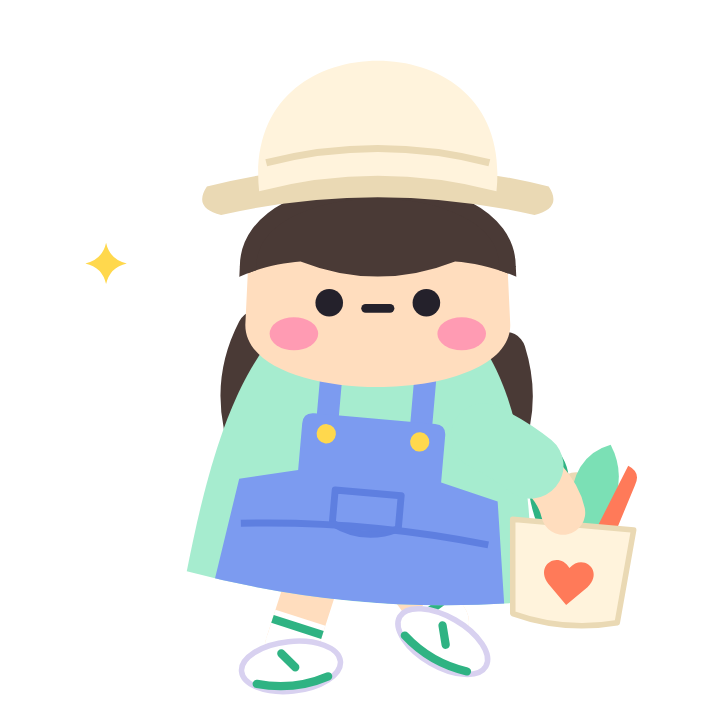
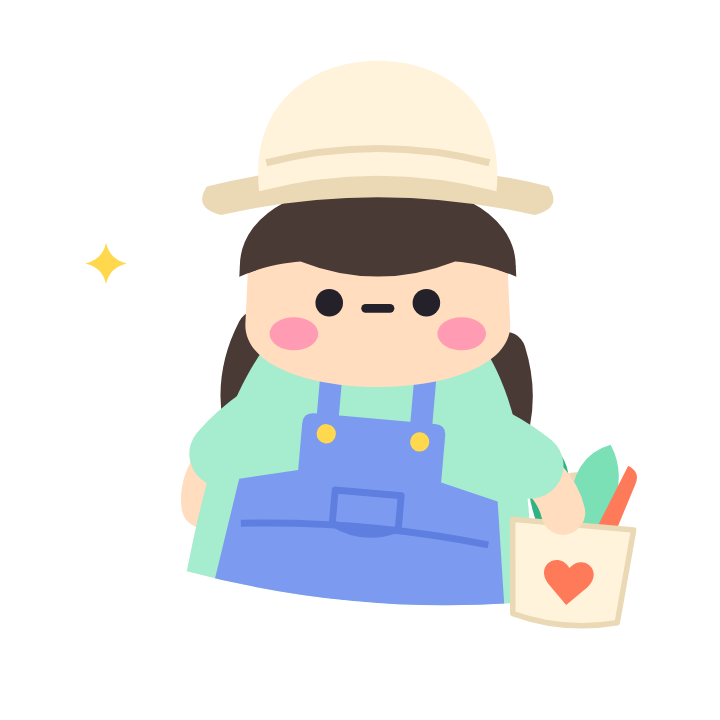
Replace waving with real actions: the chef tosses the wok, the shopper walks
The waving poses are gone. Chef Jiw now cooks: the wok and his arms flick
up while the food flies higher and lands back in time. Bai Toey walks:
her legs lift one after the other while she carries her tote. Each moving
part is its own layer over the body, and how far a part moves is a share
of the picture's size, so it looks the same small or large.

The kitchen scene, the plan card, onboarding, the waitlist page and the
link preview use the cooking chef. Checked the worried chef's shake on a
failed server call in the browser.

Claude-Session: https://claude.ai/code/session_01YRit4BDrXmu1xBXH17a6cf

Changed region(s): [[0.3361, 0.825, 0.4889, 0.9778], [0.55, 0.825, 0.7028, 0.9472], [0.2444, 0.55, 0.3361, 0.7333]]

diff --git a/src/components/ui.tsx b/src/components/ui.tsx
@@ -5,7 +5,7 @@ import { AccessibilityInfo, Animated, Easing, Modal, Platform, Pressable, Scroll
 import { useSafeAreaInsets } from 'react-native-safe-area-context';
 
 import { Icon, type IconName } from '@/components/icon';
-import { MASCOT, type Layers, type Motion, type SCENE } from '@/data/images';
+import { MASCOT, type Layers, type Motion, type PartMove, type SCENE } from '@/data/images';
 import type { ApiErrorKind } from '@/lib/api';
 import { BETA } from '@/lib/beta';
 import { FREE_PER_DAY } from '@/lib/quota';
@@ -86,12 +86,17 @@ export function Card({ tone = 'soft', children, style, onPress, label }: { tone?
 type Ease = 'sin' | 'up' | 'down';
 const EASE = { sin: Easing.inOut(Easing.sin), up: Easing.out(Easing.quad), down: Easing.in(Easing.quad) };
 // แต่ละจังหวะ: [ค่าปลายทาง, เวลา (ms), การเร่ง] แล้วพัก rest ก่อนวนใหม่
-const MOVES: Record<Motion | 'wave', { steps: [number, number, Ease][]; rest: number }> = {
+const MOVES: Record<Motion | PartMove, { steps: [number, number, Ease][]; rest: number }> = {
   bob: { steps: [[-6, 1400, 'sin'], [0, 1400, 'sin']], rest: 0 },
   sway: { steps: [[1, 800, 'sin'], [-1, 1600, 'sin'], [0, 800, 'sin']], rest: 0 },
   jump: { steps: [[-20, 240, 'up'], [0, 240, 'down'], [-12, 180, 'up'], [0, 180, 'down']], rest: 900 },
   shake: { steps: [[-5, 70, 'sin'], [5, 140, 'sin'], [-5, 140, 'sin'], [5, 140, 'sin'], [0, 70, 'sin']], rest: 1800 },
-  wave: { steps: [[1, 260, 'sin'], [-1, 260, 'sin'], [1, 260, 'sin'], [-1, 260, 'sin'], [0, 200, 'sin']], rest: 1500 },
+  // ผัดกระทะ: กระทะกระดกแล้วของลอยขึ้นสูงกว่า รอบละเท่ากัน (1.2 วินาที) จึงเข้าจังหวะกัน
+  toss: { steps: [[-1, 200, 'up'], [0, 260, 'down']], rest: 740 },
+  fly: { steps: [[-1, 330, 'up'], [0, 330, 'down']], rest: 540 },
+  // เดิน: ยกขาสลับข้าง ขาขวาเริ่มหลังขาซ้ายครึ่งรอบ
+  stepL: { steps: [[-1, 200, 'up'], [0, 200, 'down']], rest: 400 },
+  stepR: { steps: [[0, 400, 'sin'], [-1, 200, 'up'], [0, 200, 'down']], rest: 0 },
 };
 /** วนการขยับชุดหนึ่งไปเรื่อยๆ หลังหน่วง delay หยุดนิ่งถ้าเครื่องตั้งค่าลดการเคลื่อนไหว */
 function useMove(move: keyof typeof MOVES, delay = 0) {
@@ -125,17 +130,25 @@ export function Float({ children, motion = 'bob', delay = 0 }: { children: React
   );
 }
 
-/** ภาพตัวละครจัตุรัส ถ้าส่งชั้นแยกของท่าโบกมือมา แขนจะโบกจริงรอบหัวไหล่ */
-export function Mascot({ source, wave, size }: { source: number; wave?: Layers; size: number | '100%' }) {
-  const v = useMove('wave', 300);
-  if (!wave) return <Image source={source} style={{ width: size, aspectRatio: 1 }} contentFit="contain" accessible={false} />;
+// ระยะที่แต่ละส่วนขยับ เป็นสัดส่วนของขนาดภาพ ตัวละครจึงขยับเท่ากันไม่ว่าจะแสดงเล็กหรือใหญ่
+const REACH: Record<PartMove, number> = { toss: 0.035, fly: 0.11, stepL: 0.035, stepR: 0.035 };
+/** ชั้นหนึ่งของตัวละครที่ขยับเอง: กระทะกระดก ของในกระทะลอย หรือขายกสลับข้าง */
+function Part({ source, move, width }: { source: number; move: PartMove; width: number }) {
+  const v = useMove(move);
+  const lift = { translateY: Animated.multiply(v, width * REACH[move]) };
+  const transform = move === 'toss' ? [lift, { rotate: v.interpolate({ inputRange: [-1, 0], outputRange: ['-6deg', '0deg'] }) }] : [lift];
+  return <Animated.View style={[StyleSheet.absoluteFill, { transform }]}><Image source={source} style={StyleSheet.absoluteFill} contentFit="contain" accessible={false} /></Animated.View>;
+}
+
+/** ภาพตัวละครจัตุรัส ถ้าส่ง layers มา ส่วนที่แยกชั้นไว้จะขยับเอง (เช่น ผัดกระทะ ก้าวขา) */
+export function Mascot({ source, layers, size }: { source: number; layers?: Layers; size: number | '100%' }) {
+  const [width, setWidth] = useState(typeof size === 'number' ? size : 0);
+  if (!layers) return <Image source={source} style={{ width: size, aspectRatio: 1 }} contentFit="contain" accessible={false} />;
   return (
-    <View style={{ width: size, aspectRatio: 1 }}>
-      {/* แขนอยู่หลังตัว หมุนรอบหัวไหล่ */}
-      <Animated.View style={[StyleSheet.absoluteFill, { transformOrigin: `${wave.pivot[0] * 100}% ${wave.pivot[1] * 100}%`, transform: [{ rotate: v.interpolate({ inputRange: [-1, 1], outputRange: ['-9deg', '13deg'] }) }] }]}>
-        <Image source={wave.arm} style={StyleSheet.absoluteFill} contentFit="contain" accessible={false} />
-      </Animated.View>
-      <Image source={wave.body} style={StyleSheet.absoluteFill} contentFit="contain" accessible={false} />
+    <View style={{ width: size, aspectRatio: 1 }} onLayout={(e) => setWidth(e.nativeEvent.layout.width)}>
+      {layers.parts.filter((p) => p.behind).map((p, k) => <Part key={k} source={p.source} move={p.move} width={width} />)}
+      <Image source={layers.body} style={StyleSheet.absoluteFill} contentFit="contain" accessible={false} />
+      {layers.parts.filter((p) => !p.behind).map((p, k) => <Part key={k} source={p.source} move={p.move} width={width} />)}
     </View>
   );
 }
@@ -160,7 +173,7 @@ export function Screen({ tint, title, subtitle, mascot, scene, onBack, backLabel
           <Image source={scene.source} style={StyleSheet.absoluteFill} contentFit="contain" accessible={false} />
           {scene.cast.map((c, k) => (
             <View key={k} style={{ position: 'absolute', left: `${c.left * 100}%`, top: `${c.top * 100}%`, width: `${c.width * 100}%`, aspectRatio: 1 }}>
-              <Float motion={c.motion} delay={c.delay}><Mascot source={c.source} wave={'wave' in c ? c.wave : undefined} size="100%" /></Float>
+              <Float motion={c.motion} delay={c.delay}><Mascot source={c.source} layers={'layers' in c ? c.layers : undefined} size="100%" /></Float>
             </View>
           ))}
         </View>

diff --git a/src/data/images.ts b/src/data/images.ts
@@ -33,8 +33,7 @@ export const DISH_TINT: Record<string, string> = {
 // ทีมเชฟ ตัวละครสามตัว แต่ละตัวดูแลงานของตัวเอง ใช้เฉพาะจังหวะที่ท่านั้นมีความหมาย ไม่แปะทุกหน้า
 export const MASCOT = {
   // เชฟจิ๋ว: พาทำอาหาร
-  hi: require('@/assets/images/chef/hi.png'), // ทักทาย: หน้าร้าน หน้าแนะนำแอป
-  cook: require('@/assets/images/chef/cook.png'), // ยังไม่เคยทำจานไหน
+  cook: require('@/assets/images/chef/cook.png'), // ผัดกระทะ: หน้าร้าน หน้าแนะนำแอป ยังไม่เคยทำจานไหน
   cheer: require('@/assets/images/chef/cheer.png'), // สำเร็จ: ครบเวลา ทำจานแรกแล้ว
   think: require('@/assets/images/chef/think.png'), // กำลังรอคำตอบ
   oops: require('@/assets/images/chef/oops.png'), // มีอะไรผิดพลาด
@@ -48,27 +47,32 @@ export const MASCOT = {
 };
 
 export type Motion = 'bob' | 'jump' | 'sway' | 'shake';
-/** ท่าโบกมือแยกเป็นสองชั้น: ตัว กับแขนที่โบก แอปหมุนชั้นแขนรอบหัวไหล่ (pivot เป็นสัดส่วนของภาพ พิมพ์ออกมาตอนรัน draw.py) */
-export type Layers = { body: number; arm: number; pivot: [number, number] };
+/** ท่าที่ขยับทีละส่วน: ภาพตัว แล้วซ้อนด้วยส่วนที่ขยับ (ทุกชั้นขนาดเท่ากัน วางทับกันพอดี) behind = อยู่หลังตัว */
+export type PartMove = 'toss' | 'fly' | 'stepL' | 'stepR';
+export type Layers = { body: number; parts: { source: number; move: PartMove; behind?: boolean }[] };
 export const LAYERS = {
-  hi: { body: require('@/assets/images/chef/hi-body.png'), arm: require('@/assets/images/chef/hi-arm.png'), pivot: [0.328, 0.606] },
-  shop: { body: require('@/assets/images/chef/shop-body.png'), arm: require('@/assets/images/chef/shop-arm.png'), pivot: [0.367, 0.579] },
+  // เชฟจิ๋วผัดกระทะ: กระทะกับแขนกระดกขึ้น ของในกระทะลอยขึ้นสูงกว่า
+  cook: { body: require('@/assets/images/chef/cook-body.png'), parts: [
+    { source: require('@/assets/images/chef/cook-food.png'), move: 'fly' }, { source: require('@/assets/images/chef/cook-wok.png'), move: 'toss' }] },
+  // ใบเตยเดิน: ขาซ้ายขวายกสลับกัน
+  shop: { body: require('@/assets/images/chef/shop-body.png'), parts: [
+    { source: require('@/assets/images/chef/shop-legL.png'), move: 'stepL', behind: true }, { source: require('@/assets/images/chef/shop-legR.png'), move: 'stepR', behind: true }] },
 } satisfies Record<string, Layers>;
 /** ฉากเต็มความกว้างใต้ชื่อหน้าจอ: ภาพพื้นหลังโปร่งใสที่วาดให้เข้ากับสีหัวจอ แล้ววางตัวละครทับทีละตัวเพื่อให้ขยับได้
  *  ตำแหน่งเป็นสัดส่วนของฉาก (ซ้าย บน กว้าง) ตัวละครเป็นภาพจัตุรัส */
 export const SCENE = {
-  // ครัวของทีมเชฟ (หัวจอสีน้ำเงิน): ใบเตยกลับจากตลาดโบกมือ เชฟจิ๋วโบกมือ น้องชิมกระโดดรอ
+  // ครัวของทีมเชฟ (หัวจอสีน้ำเงิน): ใบเตยเดินกลับจากตลาด เชฟจิ๋วผัดกระทะ น้องชิมกระโดดรอ
   home: {
     source: require('@/assets/images/chef/scene-home.png'), ratio: 780 / 360,
     cast: [
-      { source: MASCOT.shop, wave: LAYERS.shop, left: 0.008, top: 0.46, width: 0.246, motion: 'bob', delay: 400 },
-      { source: MASCOT.hi, wave: LAYERS.hi, left: 0.344, top: 0.278, width: 0.326, motion: 'bob', delay: 0 },
+      { source: MASCOT.shop, layers: LAYERS.shop, left: 0.008, top: 0.46, width: 0.246, motion: 'bob', delay: 400 },
+      { source: MASCOT.cook, layers: LAYERS.cook, left: 0.344, top: 0.278, width: 0.326, motion: 'bob', delay: 0 },
       { source: MASCOT.yum, left: 0.759, top: 0.528, width: 0.215, motion: 'jump', delay: 900 },
     ],
   },
   // แผงตลาด (หัวจอสีส้ม): ใบเตยเดินเลือกของ
   plan: {
     source: require('@/assets/images/chef/scene-plan.png'), ratio: 780 / 300,
-    cast: [{ source: MASCOT.shop, wave: LAYERS.shop, left: 0.038, top: 0.233, width: 0.295, motion: 'bob', delay: 0 }],
+    cast: [{ source: MASCOT.shop, layers: LAYERS.shop, left: 0.038, top: 0.233, width: 0.295, motion: 'bob', delay: 0 }],
   },
-} satisfies Record<string, { source: number; ratio: number; cast: { source: number; wave?: Layers; left: number; top: number; width: number; motion: Motion; delay: number }[] }>;
+} satisfies Record<string, { source: number; ratio: number; cast: { source: number; layers?: Layers; left: number; top: number; width: number; motion: Motion; delay: number }[] }>;

diff --git a/src/app/(tabs)/index.tsx b/src/app/(tabs)/index.tsx
@@ -58,7 +58,7 @@ export default function Home() {
           <T v="hero" tone="yellow">{price(PER_MEAL)}</T>
           <T v="small" tone="onNavyMuted">{t('plan.sub')}</T>
         </View>
-        <Float><Mascot source={MASCOT.shop} wave={LAYERS.shop} size={104} /></Float>
+        <Float><Mascot source={MASCOT.shop} layers={LAYERS.shop} size={104} /></Float>
         <Icon name="next" color="#FFFFFF" />
       </Card>
       {!BETA && (
@@ -75,7 +75,7 @@ export default function Home() {
           <T v="hero" tone="pastel">{runs.length}</T>
           <T v="bodyBold" tone="pastel">{t('home.cooked')}</T>
         </View>
-        <Float motion={runs.length ? 'jump' : 'sway'}><Image source={runs.length ? MASCOT.cheer : MASCOT.cook} style={{ width: 96, height: 96 }} contentFit="contain" accessible={false} /></Float>
+        {runs.length ? <Float motion="jump"><Mascot source={MASCOT.cheer} size={96} /></Float> : <Mascot source={MASCOT.cook} layers={LAYERS.cook} size={96} />}
       </Card>
     </Screen>
   );

diff --git a/src/app/onboarding.tsx b/src/app/onboarding.tsx
@@ -35,7 +35,7 @@ export default function Onboarding() {
       <View style={[s.top, { paddingTop: insets.top + space.md }]}>
         <Button kind={isDark ? 'secondary' : 'onPastelLight'} label={t('ob.skip')} onPress={() => finish('/')} />
       </View>
-      <View style={{ alignSelf: 'center' }}><Float><Mascot source={MASCOT.hi} wave={LAYERS.hi} size={200} /></Float></View>
+      <View style={{ alignSelf: 'center' }}><Float><Mascot source={MASCOT.cook} layers={LAYERS.cook} size={200} /></Float></View>
       <View style={[s.sheet, { backgroundColor: colors.bg, paddingBottom: Math.max(insets.bottom, space.lg) }]}>
         <ScrollView contentContainerStyle={{ gap: space.md }}>
           <View style={{ flexDirection: 'row', alignItems: 'center', gap: space.sm }} accessibilityLabel={t('ob.count', { n: step + 1, total: 4 })}>

diff --git a/assets/images/chef/src/draw.py b/assets/images/chef/src/draw.py
@@ -31,10 +31,11 @@ def arm(side, hx, hy, bx=0, by=0, skin='#FFE3C2', sleeve=None, cut=0.62):
         out += f'<path d="M{x0} {y0} Q{ax} {ay} {ax + (bx2 - ax) * t} {ay + (by2 - ay) * t}" stroke="{sleeve}" stroke-width="48" stroke-linecap="round" fill="none"/>'
     return out
 STAND = ((202, 440, 0), (278, 440, 0))
-def legs(skin, sock, accent, feet, drop):
+def legs(skin, sock, accent, feet, drop, only=None):
     """ขาจากสะโพกถึงเท้า เท้าแต่ละข้างกำหนดเป็น (x, y, มุมหมุนรองเท้า) จึงยกขา ก้าว หรือนั่งแบะขาได้"""
     out = ''
-    for (hx, hy), (fx, fy, rot) in zip(((208, 372 + drop), (272, 372 + drop)), feet):
+    for k, ((hx, hy), (fx, fy, rot)) in enumerate(zip(((208, 372 + drop), (272, 372 + drop)), feet)):
+        if only is not None and k != only: continue
         ax, ay = fx, fy - 14; mx, my = hx + (ax - hx) * 0.62, hy + (ay - hy) * 0.62  # ถุงเท้าคลุมช่วงล่างของขา
         dx, dy = ax - hx, ay - hy; n = max(1.0, (dx * dx + dy * dy) ** 0.5); px, py = -dy / n * 19, dx / n * 19
         sx, sy = hx + dx * 0.74, hy + dy * 0.74
@@ -43,19 +44,23 @@ def legs(skin, sock, accent, feet, drop):
                 f'<g transform="rotate({rot} {fx} {fy})"><ellipse cx="{fx}" cy="{fy}" rx="36" ry="18" fill="#FFFFFF" stroke="{HAT_D}" stroke-width="4"/>'
                 f'<path d="M{fx-26} {fy+10} q26 8 52 0" stroke="{accent}" stroke-width="6" stroke-linecap="round" fill="none"/><path d="M{fx-6} {fy-10} l9 11" stroke="{accent}" stroke-width="6" stroke-linecap="round"/></g>')
     return out
-LAYER = ['all']  # 'body' = ไม่วาดแขนที่โบก  'wave' = วาดเฉพาะแขนที่โบก ใช้ทำภาพแยกชั้นให้แอปขยับแขนได้
+LAYER = ['all']  # 'all' = ภาพเต็ม  'body' = ตัดส่วนที่ขยับแยกออก  ชื่อส่วน หรือ 'legL' 'legR' = วาดเฉพาะส่วนนั้น ใช้ทำภาพแยกชั้นให้แอปขยับทีละส่วน
 _n = [0]
 def person(skin, top, clothes, hair, accent, look=(0, 0), mouth=True, sock='#FFFFFF', back='', under_head='', arms_back='', arms_front='', hat='', front='', blush=0.85,
-           lean=0, tilt=0, feet=STAND, drop=0, ground='', legs_front=False, wave=''):
+           lean=0, tilt=0, feet=STAND, drop=0, ground='', legs_front=False, parts=None, split_legs=False):
     """lean = เอนตัวท่อนบน (องศา) tilt = เอียงคอ feet = ตำแหน่งเท้า drop = ย่อตัวลง (นั่ง) legs_front = ขาอยู่หน้าตัว (นั่งเหยียดขามาข้างหน้า) ground = ของที่พื้น การกระโดดทำเป็นแอนิเมชันในแอป"""
     _n[0] += 1; cid = f'c{_n[0]}'
-    if LAYER[0] == 'wave': return SVG(f'<g transform="translate(240 470) scale(0.92) translate(-240 -470)"><g transform="translate(0 {drop}) rotate({lean} 240 384)">{wave}</g></g>')
-    if LAYER[0] == 'body': wave = ''
-    return SVG(f'''<g transform="translate(240 470) scale(0.92) translate(-240 -470)">{ground}<g>{'' if legs_front else legs(skin, sock, accent, feet, drop)}
-<g transform="translate(0 {drop}) rotate({lean} 240 384)">{back}{wave}{arms_back}
+    layer, parts = LAYER[0], parts or {}
+    fit = lambda inner: SVG(f'<g transform="translate(240 470) scale(0.92) translate(-240 -470)">{inner}</g>')
+    if layer in parts: return fit(f'<g transform="translate(0 {drop}) rotate({lean} 240 384)">{parts[layer]}</g>')
+    if layer in ('legL', 'legR'): return fit(legs(skin, sock, accent, feet, drop, only=('legL', 'legR').index(layer)))
+    moving = ''.join(parts.values()) if layer == 'all' else ''
+    both_legs = '' if (split_legs and layer == 'body') else legs(skin, sock, accent, feet, drop)
+    return SVG(f'''<g transform="translate(240 470) scale(0.92) translate(-240 -470)">{ground}<g>{'' if legs_front else both_legs}
+<g transform="translate(0 {drop}) rotate({lean} 240 384)">{back}{arms_back}
 <clipPath id="{cid}"><path d="{TORSO}"/></clipPath><path d="{TORSO}" fill="{top}"/><g clip-path="url(#{cid})">{clothes}</g>
 <g transform="rotate({tilt} 240 236)">{under_head}<path d="{HEAD}" fill="{skin}"/>{hair}{hat}{face(look, mouth, blush)}</g>
-{arms_front}</g>{legs(skin, sock, accent, feet, drop) if legs_front else ''}</g>{front}</g>''')
+{arms_front}{moving}</g>{both_legs if legs_front else ''}</g>{front}</g>''')
 
 # ---------- เชฟจิ๋ว: หมวกเชฟ ผมหน้าม้าปัดข้าง เสื้อแขนยาวฟ้า ผ้ากันเปื้อนเต็มตัวสีส้มมีกระเป๋า ----------
 S1, SKY, BROWN = '#FFE3C2', '#BFD9FF', '#6B4632'
@@ -71,14 +76,13 @@ def chef(**k):
     return person(S1, SKY, apron, chef_hair, CORAL, **k)
 A1 = lambda side, hx, hy, bx=0, by=0: arm(side, hx, hy, bx, by, S1, SKY)
 ladle = lambda x, y, r: f'<g transform="rotate({r} {x} {y})"><path d="M{x} {y+26} V{y-66}" stroke="{WOOD}" stroke-width="10" stroke-linecap="round"/><path d="M{x-22} {y-70} a22 22 0 0 0 44 0 z" fill="{WOOD}"/></g>'
-wok = lambda x, y, r=0: (f'<g transform="rotate({r} {x} {y})"><path d="M{x-66} {y} q66 56 132 0 z" fill="{INK}"/><path d="M{x+62} {y+2} l48 -12" stroke="{INK}" stroke-width="13" stroke-linecap="round"/></g>'
-                    f'<circle cx="{x-34}" cy="{y-40}" r="9" fill="{GREEN_L}"/><circle cx="{x-2}" cy="{y-66}" r="9" fill="{CORAL}"/><circle cx="{x+30}" cy="{y-44}" r="9" fill="{YEL}"/><circle cx="{x-10}" cy="{y-24}" r="8" fill="{GREEN}"/><circle cx="{x+16}" cy="{y-84}" r="7" fill="{GREEN_L}"/>')
+wok = lambda x, y, r=0: f'<g transform="rotate({r} {x} {y})"><path d="M{x-66} {y} q66 56 132 0 z" fill="{INK}"/><path d="M{x+62} {y+2} l48 -12" stroke="{INK}" stroke-width="13" stroke-linecap="round"/></g>'
+food = lambda x, y: f'<circle cx="{x-34}" cy="{y-30}" r="9" fill="{GREEN_L}"/><circle cx="{x-2}" cy="{y-50}" r="9" fill="{CORAL}"/><circle cx="{x+30}" cy="{y-34}" r="9" fill="{YEL}"/><circle cx="{x-10}" cy="{y-20}" r="8" fill="{GREEN}"/><circle cx="{x+16}" cy="{y-62}" r="7" fill="{GREEN_L}"/>'
 def build():
     P = {
-      # โบกมือ เอนตัวนิดๆ เท้าหนึ่งเขย่ง
-      'hi': chef(lean=-5, tilt=5, feet=((200, 440, 0), (292, 432, 24)), wave=A1('L', 92, 196, -18, 14), arms_front=ladle(378, 300, 14) + A1('R', 374, 318, 20, -6)),
       # เอนตัวตามกระทะ ของในกระทะลอยขึ้น
-      'cook': chef(lean=9, tilt=-6, feet=((186, 440, -8), (286, 440, 10)), arms_front=wok(262, 346, -10) + A1('L', 200, 340, -34, 12) + A1('R', 356, 328, 30, 8)),
+      'cook': chef(lean=9, tilt=-6, feet=((186, 440, -8), (286, 440, 10)),
+                   parts={'food': food(262, 346), 'wok': wok(262, 346, -10) + A1('L', 200, 340, -34, 12) + A1('R', 356, 328, 30, 8)}),
       # กระโดดตัวลอย แขนขากาง
       'cheer': chef(feet=((170, 432, -22), (310, 432, 22)), arms_back=A1('L', 88, 172, -14, 16) + A1('R', 392, 172, 14, 16), hat=toque(-14),
                     front=star(50, 96, 22) + star(432, 84, 26) + star(400, 22, 13) + star(96, 30, 12)),
@@ -108,8 +112,8 @@ def build():
         f'<path d="M{x-26} {y+2} q-20 -42 6 -58 q24 18 8 58 z" fill="{GREEN}"/><path d="M{x-2} {y+2} q-8 -50 24 -62 q18 28 -4 62 z" fill="{GREEN_L}"/><path d="M{x+16} {y+4} l20 -50 q10 4 6 14 l-12 38 z" fill="{CORAL}"/>'
         f'<path d="M{x-44} {y} h88 l-6 68 q-38 10 -76 0 z" fill="{CREAM}" stroke="{CREAM_D}" stroke-width="4" stroke-linejoin="round"/>' + heart(x, y + 36, 0.75, CORAL))
     P.update({
-      # เดินกลับจากตลาด ก้าวขา แกว่งถุงผ้า
-      'shop': toey(lean=5, tilt=-5, feet=((190, 442, -6), (300, 424, 30)), wave=A2('L', 96, 204, -18, 14), arms_front=tote(390, 326) + A2('R', 382, 318, 22, -4), front=star(56, 150, 15)),
+      # เดินกลับจากตลาด ก้าวขา มือหนึ่งหิ้วถุงผ้า อีกมือแกว่งข้างตัว
+      'shop': toey(lean=5, tilt=-5, feet=((196, 442, -6), (290, 440, 14)), split_legs=True, arms_back=A2('L', 122, 336, -26, 4), arms_front=tote(390, 326) + A2('R', 382, 318, 22, -4), front=star(56, 150, 15)),
       # นั่งบนลังไม้ อ่านรายการของ แกว่งขา
       'list': toey(tilt=7, feet=((196, 446, -14), (292, 434, 22)),
                    ground=f'<rect x="126" y="384" width="228" height="80" rx="12" fill="{STRAW}"/><path d="M138 412 h204 M138 438 h204" stroke="{STRAW_D}" stroke-width="6" stroke-linecap="round"/>',
@@ -147,15 +151,11 @@ def build():
     return P
 
 POSES = build()
-# ท่าโบกมือทำเป็นสองชั้น (ตัว กับแขนที่โบก) แอปหมุนชั้นแขนรอบหัวไหล่ จุดหมุนพิมพ์ออกมาเป็นสัดส่วนของภาพ ใส่ใน LAYERS ที่ src/data/images.ts
-import math
-for name, lean in (('hi', -5), ('shop', 5)):
-    for layer, suffix in (('body', '-body'), ('wave', '-arm')):
-        LAYER[0] = layer; POSES[name + suffix] = build()[name]
-    LAYER[0] = 'all'
-    x, y = SHOULDER['L']; a = math.radians(lean); dx, dy = x - 240, y - 384
-    rx, ry = 240 + dx * math.cos(a) - dy * math.sin(a), 384 + dx * math.sin(a) + dy * math.cos(a)
-    print(name, 'pivot', round((240 + (rx - 240) * 0.92) / 480, 3), round((470 + (ry - 470) * 0.92) / 480, 3))
+# ท่าที่ขยับทีละส่วนทำเป็นหลายชั้น: ตัว (-body) กับส่วนที่ขยับ แอปวางซ้อนกันแล้วขยับแต่ละชั้นตาม LAYERS ที่ src/data/images.ts
+for name, layers in (('cook', ('body', 'wok', 'food')), ('shop', ('body', 'legL', 'legR'))):
+    for layer in layers:
+        LAYER[0] = layer; POSES[f'{name}-{layer}'] = build()[name]
+LAYER[0] = 'all'
 for n, svg in POSES.items(): open(n + '.svg', 'w').write(svg)
 
 # ฉาก: วาดเฉพาะของในฉาก ตัวละครวางทับในแอปเพื่อให้ขยับได้ (ตำแหน่งอยู่ใน SCENE ที่ src/data/images.ts) พื้นหลังโปร่งใส ใช้สีอ่อนเข้มของสีหัวจอ แล้วแต้มสีสดเฉพาะของชิ้นเล็ก

diff --git a/README.md b/README.md
@@ -84,7 +84,7 @@ select created_at, kind, name, contact, paid_note, source from waitlist order by
 
 | ตัวละคร | หน้าตาและชุด | ใช้ตอน |
 |---|---|---|
-| เชฟจิ๋ว | หมวกเชฟ ผมหน้าม้าปัดข้าง ฮู้ดฟ้า ผ้ากันเปื้อนเต็มตัวสีส้ม ถือกระบวยหรือกระทะ | ทักทายที่หน้าร้านและหน้าแนะนำแอป ครบเวลา รอคำตอบ มีข้อผิดพลาด |
+| เชฟจิ๋ว | หมวกเชฟ ผมหน้าม้าปัดข้าง เสื้อแขนยาวฟ้า ผ้ากันเปื้อนเต็มตัวสีส้ม ถือกระทะ | ผัดกระทะที่หน้าร้านและหน้าแนะนำแอป ครบเวลา รอคำตอบ มีข้อผิดพลาด |
 | ใบเตย | หมวกบักเก็ต ผมเปียคู่ผูกโบว์ เสื้อยืดเขียวมินต์ เอี๊ยมกระโปรงยีนส์ ถือถุงผ้าใส่ผัก | แผนวันอาทิตย์ รายการของที่ต้องซื้อ ราคาตลาด |
 | น้องชิม | ฮู้ดหมีสีเหลืองสวมฮู้ด กระโปรงพลีทชมพู ถุงเท้าชมพู ถือช้อนใหญ่ | ชิมให้คะแนนตอนทำจบจาน หน้าตาเปลี่ยนตามคะแนน |
 
@@ -92,7 +92,7 @@ select created_at, kind, name, contact, paid_note, source from waitlist order by
 
 ฉาก: หน้าร้านเป็นครัวของทีมเชฟ และหน้าแผนวันอาทิตย์เป็นแผงตลาด ภาพฉากมีแต่ของในฉาก ตัวละครวางทับทีละตัวตามตำแหน่งใน `SCENE` (ไฟล์เดียวกัน) เพื่อให้ขยับได้ หัวข้อใช้ฟอนต์ Mitr
 
-การขยับ: `Float` ใน `src/components/ui.tsx` มี 4 แบบ คือลอยขึ้นลง โยกซ้ายขวา สั่นตกใจ และกระโดดพร้อมเงา ตัวละครทุกจุดในแอปใช้แบบใดแบบหนึ่ง และหยุดนิ่งเมื่อเครื่องตั้งค่าลดการเคลื่อนไหว ท่าโบกมือของเชฟจิ๋วกับใบเตยแยกเป็นสองชั้น (`hi-body` กับ `hi-arm`, `shop-body` กับ `shop-arm`) แล้ว `Mascot` หมุนชั้นแขนรอบหัวไหล่ จุดหมุนอยู่ใน `LAYERS` และ draw.py พิมพ์ค่าออกมาตอนรัน
+การขยับ: `Float` ใน `src/components/ui.tsx` มี 4 แบบ คือลอยขึ้นลง โยกซ้ายขวา สั่นตกใจ และกระโดดพร้อมเงา ตัวละครทุกจุดในแอปใช้แบบใดแบบหนึ่ง และหยุดนิ่งเมื่อเครื่องตั้งค่าลดการเคลื่อนไหว ท่าที่ขยับทีละส่วนแยกเป็นหลายชั้น (เชฟจิ๋วผัดกระทะ: `cook-body` `cook-wok` `cook-food`, ใบเตยเดิน: `shop-body` `shop-legL` `shop-legR`) แล้ว `Mascot` ซ้อนชั้นและขยับแต่ละส่วนตาม `LAYERS`
 
 วาดเองเป็น SVG: แก้ท่า สี ชุด ฉาก หรือเพิ่มตัวละครที่ `assets/images/chef/src/draw.py` รันแล้วได้ SVG ใหม่ จากนั้น `node raster.js ..` ในโฟลเดอร์เดียวกันแปลงเป็น PNG
 
